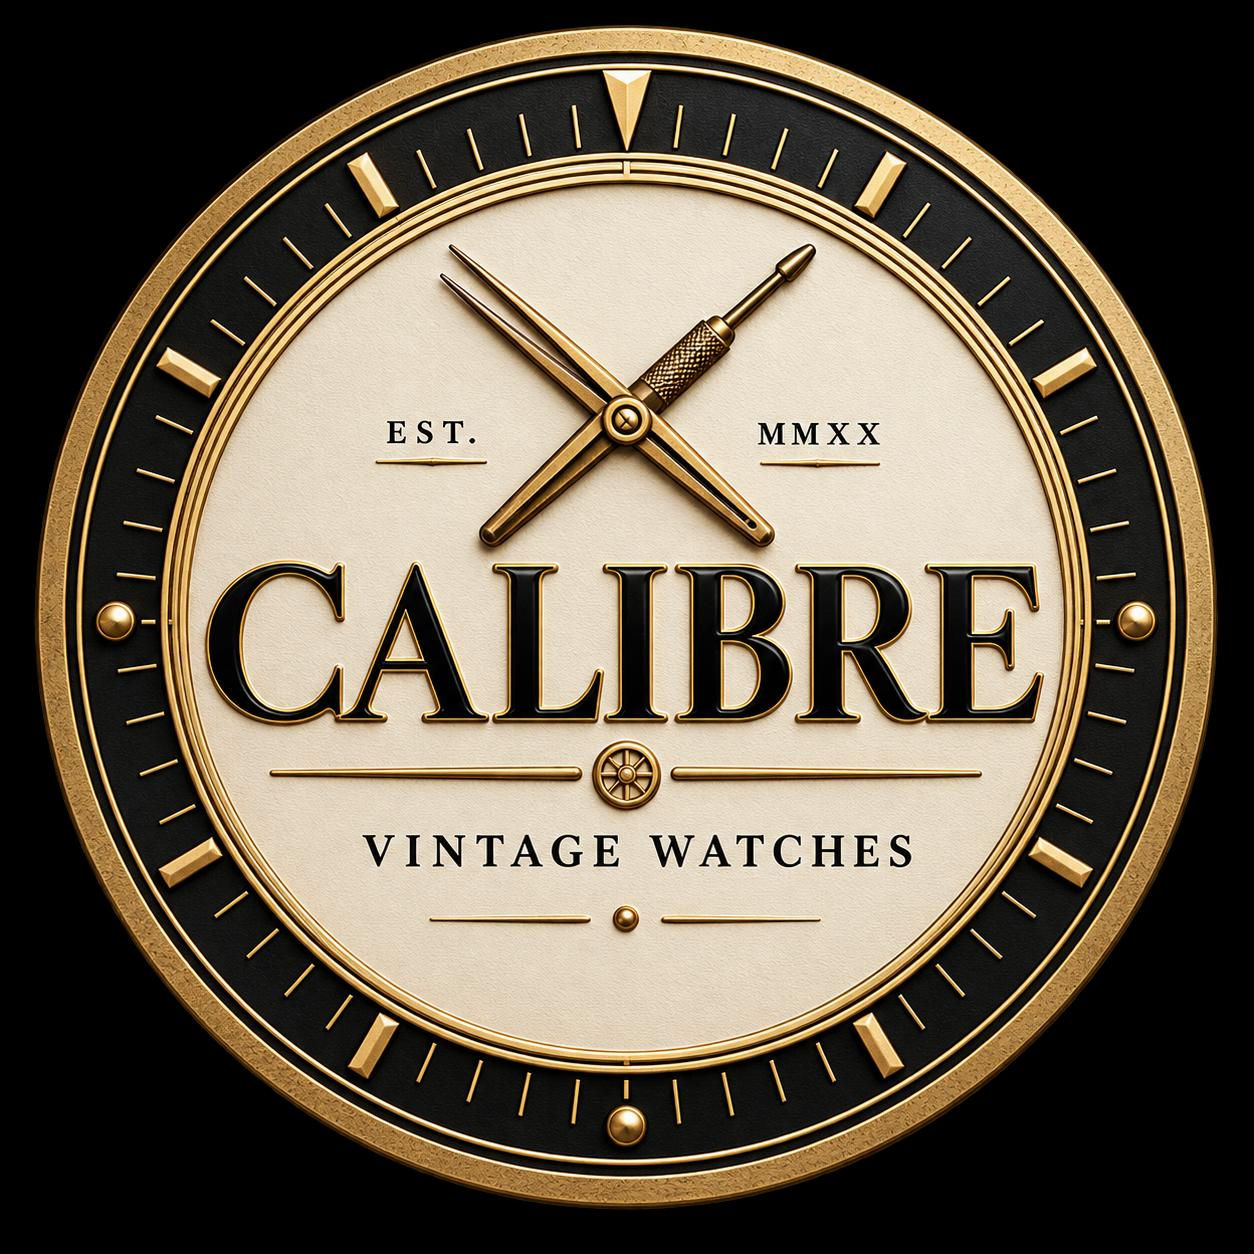
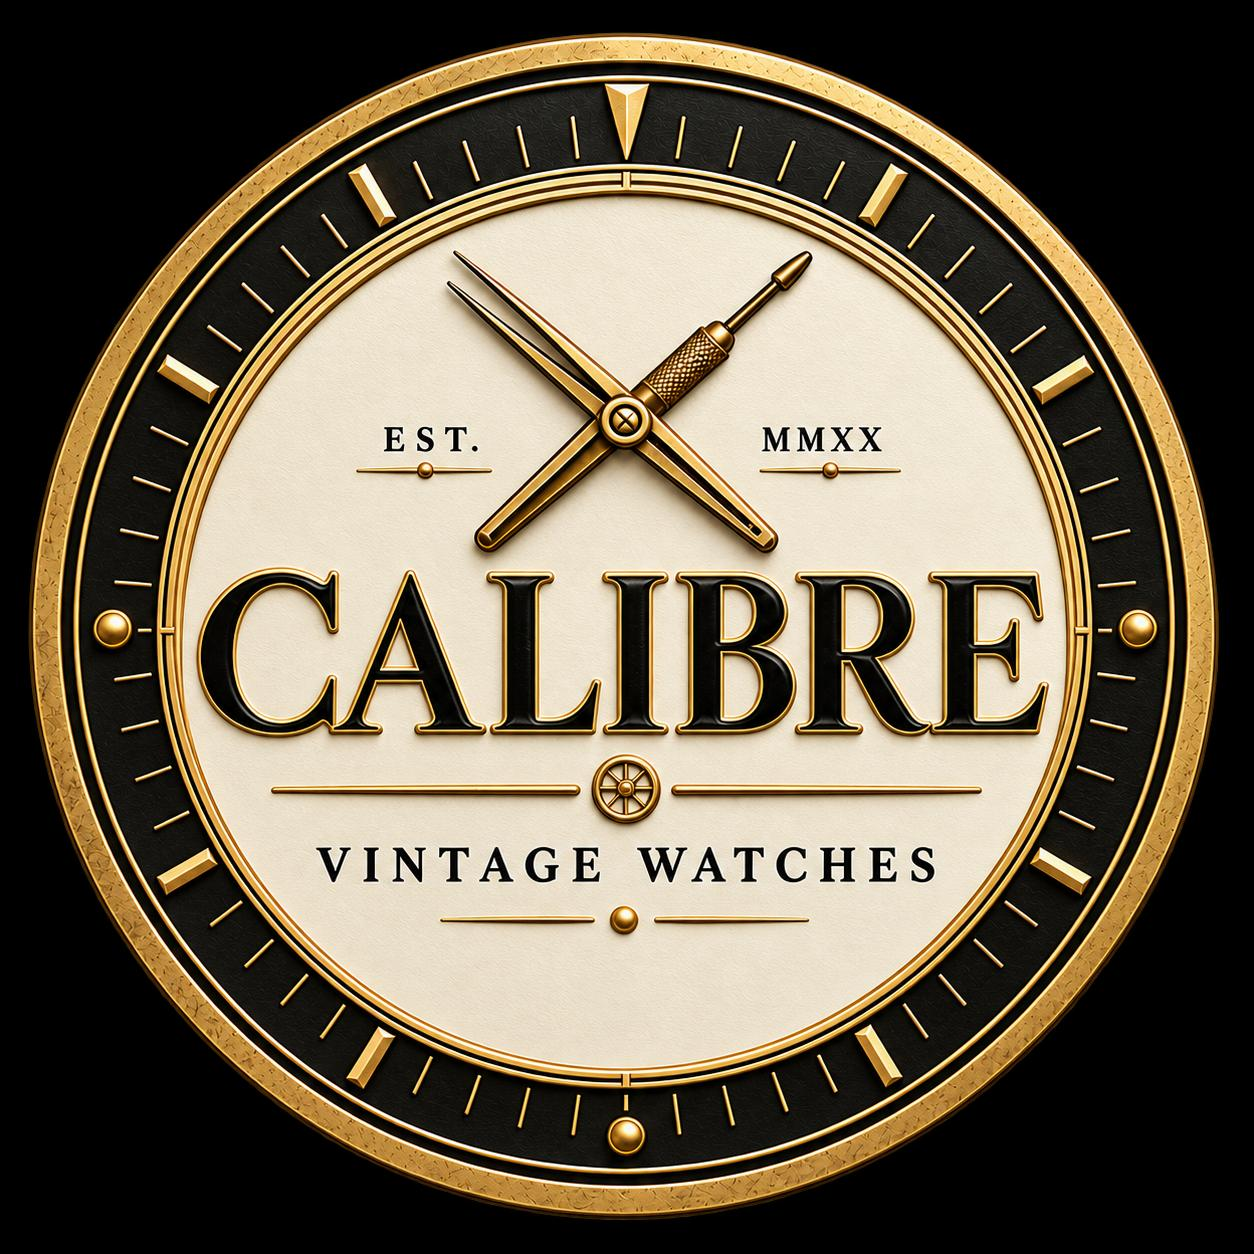
Swap in the black Calibre marks

Changed region(s): [[0.0, 0.0, 0.9952, 0.9952]]

diff --git a/summary.html b/summary.html
@@ -17,7 +17,7 @@
 </div>
 <p id="statusText" class="muted small no-print"></p>
 </div>
-<script src="js/nav.js?v=6"></script>
+<script src="js/nav.js?v=7"></script>
 <script type="module">
 import { STAGES, loadState, saveState, current, exportCard, money, labourCost, investment, markSpares } from "./js/store.js?v=5";
 import { STAGE_COPY } from "./js/stages.js?v=8";
@@ -42,7 +42,7 @@ const stages = job.stages.map((s,i) => {
   return `<div class='line'><span>${title}</span><strong>${s.complete?"Done. ":""}${bits||"Opened"}</strong></div>`;
 }).join("");
 const runs = (job.timingRuns||[]).slice(0,4).map(r => `<div class='line'><span>${r.position}</span><strong>${r.rate>=0?"+":""}${Number(r.rate).toFixed(0)} s/day</strong></div>`).join("");
-$("sheet").innerHTML = `<img class="wordmark" src="assets/wordmark.png" alt="Calibre vintage watches"><h2>${job.watchName}</h2><p class='muted small'>${job.jobId}</p>`+lines.map(x=>`<div class='line'><span>${x[0]}</span><strong>${x[1]}</strong></div>`).join("")+(p.notes?`<p>${p.notes}</p>`:"")+`<h3>Work</h3>`+(stages||"<p class='muted'>No stage notes.</p>")+(runs?`<h3>Timing</h3>${runs}`:"");
+$("sheet").innerHTML = `<img class="wordmark" src="assets/wordmark.png?v=2" alt="Calibre vintage watches"><h2>${job.watchName}</h2><p class='muted small'>${job.jobId}</p>`+lines.map(x=>`<div class='line'><span>${x[0]}</span><strong>${x[1]}</strong></div>`).join("")+(p.notes?`<p>${p.notes}</p>`:"")+`<h3>Work</h3>`+(stages||"<p class='muted'>No stage notes.</p>")+(runs?`<h3>Timing</h3>${runs}`:"");
 function download(name, data){ const a = document.createElement("a"); a.href = URL.createObjectURL(new Blob([JSON.stringify(data,null,2)],{type:"application/json"})); a.download = name; a.click(); }
 $("completeJob").onclick = async () => {
   if (!confirm("Mark "+job.watchName+" complete?")) return;

diff --git a/index.html b/index.html
@@ -6,7 +6,7 @@
 <div class="shell">
 <header class="brandbar"><a class="brand" href="index.html"><div class="brandmark">C&C</div><div><div class="kicker">CALIBRE & CO.</div><h1>Watchmaker's Workbench</h1></div></a></header>
 <nav class="mainnav"><a class="navbtn active" href="index.html" aria-current="page">Start</a><a class="navbtn" href="workbench.html">Bench</a><a class="navbtn" href="timegrapher.html">Time</a><a class="navbtn" href="passport.html">Identity</a><a class="navbtn" href="business.html">Cost</a><a class="navbtn" href="summary.html">Sheet</a><a class="navbtn" href="inventory.html">Stock</a><a class="navbtn" href="suppliers.html">Parts</a></nav>
-<div class="hero"><div><img class="seal" src="assets/seal-cream.png" alt="Calibre, vintage watches"><div class="kicker">OPEN WATCH</div><h2 id="watchTitle">Loading</h2><p id="watchMeta" class="muted"></p></div></div>
+<div class="hero"><div><img class="seal" src="assets/seal-cream.png?v=2" alt="Calibre, vintage watches"><div class="kicker">OPEN WATCH</div><h2 id="watchTitle">Loading</h2><p id="watchMeta" class="muted"></p></div></div>
 <section class="card">
 <label>Search<input id="q" autocomplete="off" enterkeyhint="search" placeholder="Serial, brand, part, calibre"></label>
 <div id="found" class="jobs"></div>
@@ -23,7 +23,7 @@
 <p id="statusText" class="muted small"></p></section>
 <section class="card"><h3>Inventory</h3><p class="muted small">Finished watches and the ones that became parts.</p><div id="stockList" class="jobs"></div></section>
 </div>
-<script src="js/nav.js?v=6"></script>
+<script src="js/nav.js?v=7"></script>
 <script type="module">
 import { loadState, saveState, blankJob, current, importCard } from "./js/store.js?v=5";
 import { fillResults } from "./js/search.js?v=7";

diff --git a/passport.html b/passport.html
@@ -6,7 +6,7 @@
 <div class="shell">
 <header class="brandbar"><a class="brand" href="index.html"><div class="brandmark">C&C</div><div><div class="kicker">CALIBRE & CO.</div><h1>Watchmaker's Workbench</h1></div></a></header>
 <nav class="mainnav"><a class="navbtn" href="index.html">Start</a><a class="navbtn" href="workbench.html">Bench</a><a class="navbtn" href="timegrapher.html">Time</a><a class="navbtn active" href="passport.html" aria-current="page">Identity</a><a class="navbtn" href="business.html">Cost</a><a class="navbtn" href="summary.html">Sheet</a><a class="navbtn" href="inventory.html">Stock</a><a class="navbtn" href="suppliers.html">Parts</a></nav>
-<div class="hero"><div><img class="seal dark" src="assets/seal-black.png" alt="Calibre"><div class="kicker">THIS WATCH</div><h2 id="watchTitle">Identity</h2></div></div>
+<div class="hero"><div><img class="seal dark" src="assets/seal-black.png?v=2" alt="Calibre"><div class="kicker">THIS WATCH</div><h2 id="watchTitle">Identity</h2></div></div>
 <section class="card">
 <div class="grid2">
 <label>Maker<input id="maker"></label><label>Model<input id="model"></label>
@@ -22,7 +22,7 @@
 <label>Research / history<textarea id="history" rows="4"></textarea></label>
 <p id="statusText" class="muted small">Loading…</p>
 </section></div>
-<script src="js/nav.js?v=6"></script>
+<script src="js/nav.js?v=7"></script>
 <script type="module">
 import { loadState, saveState, current } from "./js/store.js?v=5";
 const $ = id => document.getElementById(id);

diff --git a/settings.html b/settings.html
@@ -12,7 +12,7 @@
     <a class="brand" href="index.html"><div class="brandmark">C&C</div><div><div class="kicker">CALIBRE & CO.</div><h1>Watchmaker's Workbench</h1></div></a>
   </header>
   <nav class="mainnav"><a class="navbtn" href="index.html">Start</a><a class="navbtn" href="workbench.html">Bench</a><a class="navbtn" href="timegrapher.html">Time</a><a class="navbtn" href="passport.html">Identity</a><a class="navbtn" href="business.html">Cost</a><a class="navbtn" href="summary.html">Sheet</a><a class="navbtn" href="inventory.html">Stock</a><a class="navbtn" href="suppliers.html">Parts</a></nav>
-  <script src="js/nav.js?v=6"></script>
+  <script src="js/nav.js?v=7"></script>
   <div class="hero"><div><div class="kicker">LOCAL</div><h2>No model in the app</h2><p class="muted">Jobs stay on this phone. A new watch can be pasted in from chat on the Jobs page.</p></div></div>
   <section class="card"><p class="small">Paste a job JSON into Jobs, then Open pasted job. Photos are not in that paste. Export all jobs writes a backup file.</p></section>
 </div>

diff --git a/js/nav.js b/js/nav.js
@@ -11,11 +11,11 @@ var markStyle = document.createElement("style");
 markStyle.textContent = ".brandmark{padding:0;overflow:hidden;background:#111}.brandmark img{width:42px;height:42px;object-fit:cover;display:block}.seal{display:block;width:min(168px,42vw);height:auto;margin:4px auto 12px}.seal.dark{border-radius:50%}.wordmark{display:block;width:min(440px,100%);height:auto;margin:0 auto 14px}";
 document.head.appendChild(markStyle);
 document.querySelectorAll(".brandmark").forEach(function(el){
-  el.innerHTML = "<img src=\"assets/mark.png\" alt=\"\">";
+  el.innerHTML = "<img src=\"assets/mark.png?v=2\" alt=\"\">";
 });
 if (!document.querySelector("link[rel=icon]")){
   var icon = document.createElement("link");
   icon.rel = "icon";
-  icon.href = "assets/mark.png";
+  icon.href = "assets/mark.png?v=2";
   document.head.appendChild(icon);
 }

diff --git a/inventory.html b/inventory.html
@@ -10,7 +10,7 @@
 <section class="card"><h3>Complete <span id="doneCount" class="muted"></span></h3><div id="done" class="jobs"></div></section>
 <section class="card"><h3>Spares <span id="spareCount" class="muted"></span></h3><p class="muted small">Not recovered, or damaged in the repair. What is still usable is listed on Parts.</p><div id="spares" class="jobs"></div></section>
 </div>
-<script src="js/nav.js?v=6"></script>
+<script src="js/nav.js?v=7"></script>
 <script type="module">
 import { loadState, saveState, money, investment } from "./js/store.js";
 const state = await loadState();

diff --git a/suppliers.html b/suppliers.html
@@ -46,7 +46,7 @@
 <p class="muted small">Untick a part when it is gone. Write a size on the bench stage that used it. The cost goes on Cost.</p>
 </section>
 </div>
-<script src="js/nav.js?v=6"></script>
+<script src="js/nav.js?v=7"></script>
 <script type="module">
 import { loadState, saveState, current, escapeHtml } from "./js/store.js?v=5";
 import { SPARE_PARTS, matchPart } from "./js/match.js?v=5";

diff --git a/business.html b/business.html
@@ -25,7 +25,7 @@
 </div>
 <p id="statusText" class="muted small">Loading…</p>
 </section></div>
-<script src="js/nav.js?v=6"></script>
+<script src="js/nav.js?v=7"></script>
 <script type="module">
 import { loadState, saveState, current, money, labourCost, investment } from "./js/store.js";
 const $ = id => document.getElementById(id);

diff --git a/workbench.html b/workbench.html
@@ -39,7 +39,7 @@
 </div>
 <p class="autosave" id="statusText">Loading…</p>
 </section></div>
-<script src="js/nav.js?v=6"></script>
+<script src="js/nav.js?v=7"></script>
 <script type="module">
 import { STAGES, loadState, saveState, current, markSpares } from "./js/store.js?v=5";
 import { STAGE_COPY } from "./js/stages.js?v=8";

diff --git a/timegrapher.html b/timegrapher.html
@@ -31,7 +31,7 @@
 <p id="tgHint" class="muted small">Loading…</p>
 <div id="savedRuns"></div>
 </section></div>
-<script src="js/nav.js?v=6"></script>
+<script src="js/nav.js?v=7"></script>
 <script type="module">
 import { loadState, saveState, current } from "./js/store.js";
 import { suggestBph } from "./js/bph.js";

diff --git a/assistant.html b/assistant.html
@@ -20,7 +20,7 @@
     <p id="err" class="muted small"></p>
   </section>
 </div>
-<script src="js/nav.js?v=6"></script>
+<script src="js/nav.js?v=7"></script>
 <script type="module">
 import { loadState, current, jobBrief } from "./js/store.js";
 const $ = id => document.getElementById(id);
